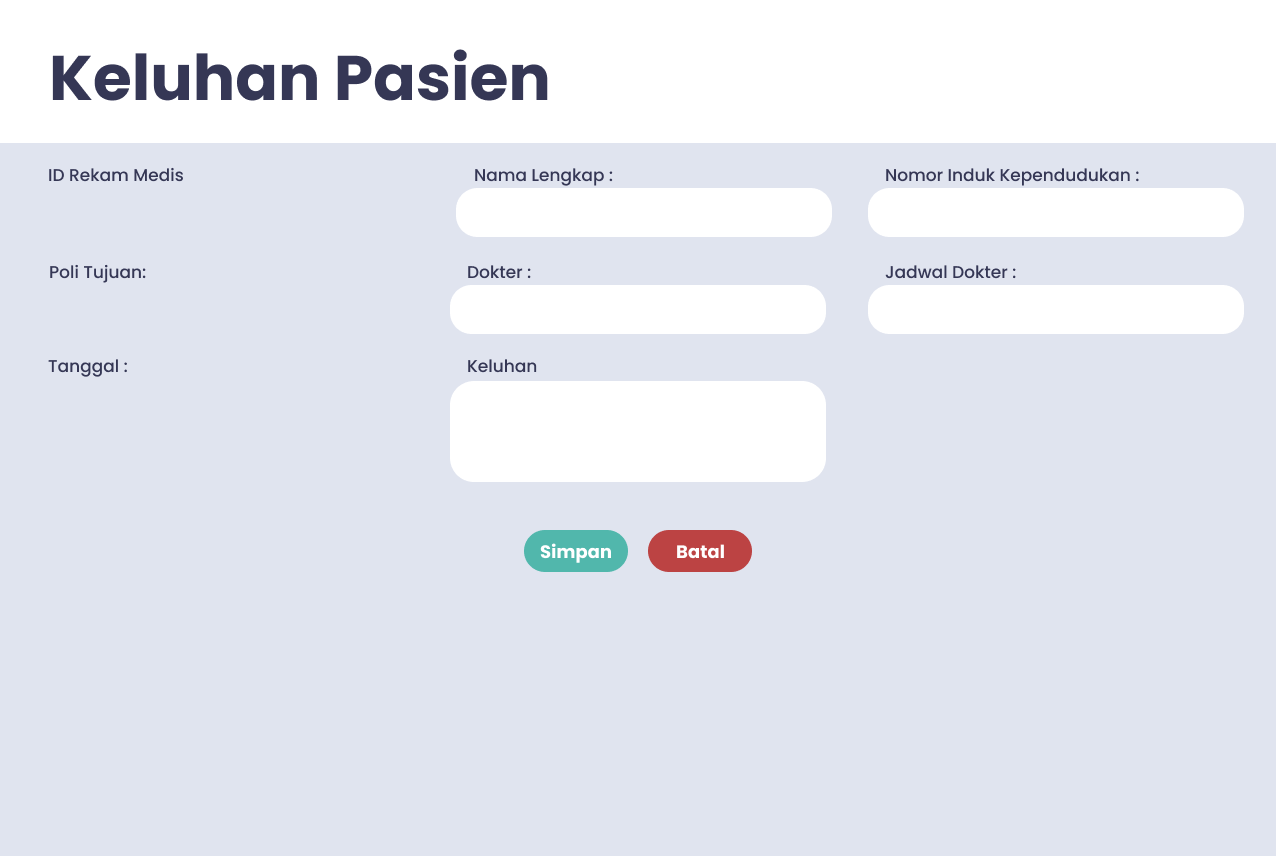
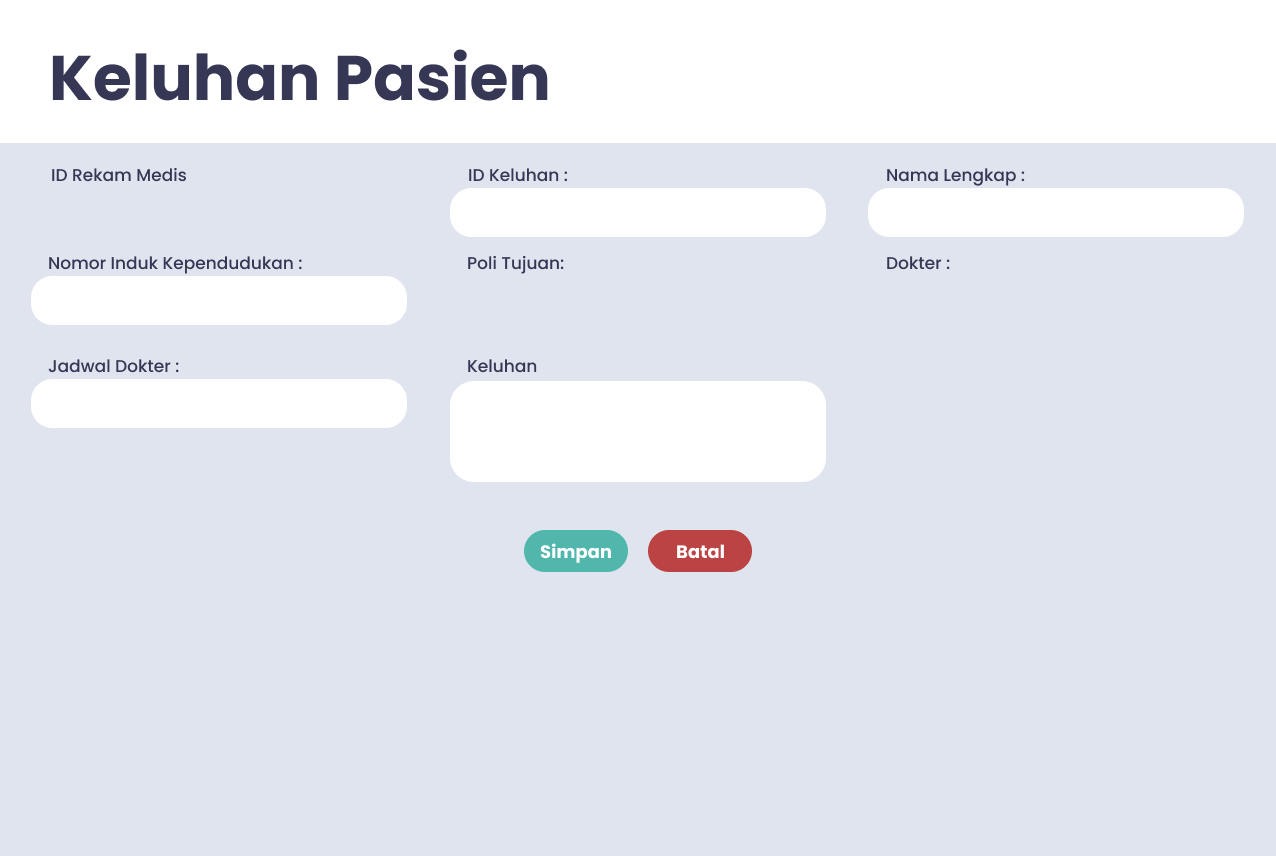
update view

diff --git a/src/permata/medika/clinic/center/MainPage.java b/src/permata/medika/clinic/center/MainPage.java
@@ -46,6 +46,9 @@ public class MainPage extends javax.swing.JFrame {
         setJumlahPasien();
         getComboRM();
         getComboPoli();
+        getDataRekamMedis();
+        getIDKeluhanOtomatis();
+        getIDRekamMedis();
     }
 
     /**
@@ -76,7 +79,6 @@ public class MainPage extends javax.swing.JFrame {
         lbl_total_pasien = new javax.swing.JLabel();
         bg_dashboard = new javax.swing.JLabel();
         menu_pendaftaran = new javax.swing.JPanel();
-        jLabel1 = new javax.swing.JLabel();
         tf_id_pasien = new javax.swing.JTextField();
         btn_simpan_pasien = new javax.swing.JLabel();
         jScrollPane1 = new javax.swing.JScrollPane();
@@ -105,6 +107,8 @@ public class MainPage extends javax.swing.JFrame {
         cmb_rekam_medis = new javax.swing.JComboBox<>();
         bg_keluhan = new javax.swing.JLabel();
         menu_rekammedis = new javax.swing.JPanel();
+        jscroll_tabel_rekam_medis = new javax.swing.JScrollPane();
+        tabel_rekam_medis = new javax.swing.JTable();
         bg_rekammedis = new javax.swing.JLabel();
 
         setDefaultCloseOperation(javax.swing.WindowConstants.EXIT_ON_CLOSE);
@@ -214,21 +218,21 @@ public class MainPage extends javax.swing.JFrame {
         lbl_jumlah_poli.setHorizontalAlignment(javax.swing.SwingConstants.CENTER);
         lbl_jumlah_poli.setText("0");
         menu_dashboard.add(lbl_jumlah_poli);
-        lbl_jumlah_poli.setBounds(1010, 230, 36, 100);
+        lbl_jumlah_poli.setBounds(976, 230, 140, 100);
 
         lbl_jumlah_dokter.setFont(new java.awt.Font("Helvetica Neue", 1, 64)); // NOI18N
         lbl_jumlah_dokter.setForeground(new java.awt.Color(255, 255, 255));
         lbl_jumlah_dokter.setHorizontalAlignment(javax.swing.SwingConstants.CENTER);
         lbl_jumlah_dokter.setText("0");
         menu_dashboard.add(lbl_jumlah_dokter);
-        lbl_jumlah_dokter.setBounds(640, 230, 36, 100);
+        lbl_jumlah_dokter.setBounds(596, 230, 170, 100);
 
         lbl_total_pasien.setFont(new java.awt.Font("Helvetica Neue", 1, 64)); // NOI18N
         lbl_total_pasien.setForeground(new java.awt.Color(255, 255, 255));
         lbl_total_pasien.setHorizontalAlignment(javax.swing.SwingConstants.CENTER);
         lbl_total_pasien.setText("0");
         menu_dashboard.add(lbl_total_pasien);
-        lbl_total_pasien.setBounds(280, 230, 36, 100);
+        lbl_total_pasien.setBounds(246, 230, 150, 100);
 
         bg_dashboard.setIcon(new javax.swing.ImageIcon(getClass().getResource("/image/halaman-menu/Panel - Dashboard - Admin.png"))); // NOI18N
         menu_dashboard.add(bg_dashboard);
@@ -240,15 +244,12 @@ public class MainPage extends javax.swing.JFrame {
         menu_pendaftaran.setBackground(new java.awt.Color(102, 255, 0));
         menu_pendaftaran.setLayout(null);
 
-        jLabel1.setText("isi id pasien");
-        menu_pendaftaran.add(jLabel1);
-        jLabel1.setBounds(170, 490, 100, 17);
-
         tf_id_pasien.setBackground(new Color(0,0,0,0));
         tf_id_pasien.setFont(new java.awt.Font("Helvetica Neue", 0, 18)); // NOI18N
         tf_id_pasien.setBorder(null);
+        tf_id_pasien.setEnabled(false);
         menu_pendaftaran.add(tf_id_pasien);
-        tf_id_pasien.setBounds(40, 520, 340, 50);
+        tf_id_pasien.setBounds(50, 188, 340, 50);
 
         btn_simpan_pasien.addMouseListener(new java.awt.event.MouseAdapter() {
             public void mouseClicked(java.awt.event.MouseEvent evt) {
@@ -266,7 +267,7 @@ public class MainPage extends javax.swing.JFrame {
         jScrollPane1.setViewportView(ta_alamat);
 
         menu_pendaftaran.add(jScrollPane1);
-        jScrollPane1.setBounds(470, 480, 350, 100);
+        jScrollPane1.setBounds(470, 470, 350, 100);
         menu_pendaftaran.add(jd_tanggal_lahir);
         jd_tanggal_lahir.setBounds(870, 190, 380, 50);
 
@@ -280,7 +281,7 @@ public class MainPage extends javax.swing.JFrame {
         tf_nomor_telepon.setFont(new java.awt.Font("Helvetica Neue", 0, 18)); // NOI18N
         tf_nomor_telepon.setBorder(null);
         menu_pendaftaran.add(tf_nomor_telepon);
-        tf_nomor_telepon.setBounds(50, 285, 340, 50);
+        tf_nomor_telepon.setBounds(50, 376, 340, 50);
 
         tf_nik.setBackground(new Color(0,0,0,0));
         tf_nik.setFont(new java.awt.Font("Helvetica Neue", 0, 18)); // NOI18N
@@ -297,7 +298,7 @@ public class MainPage extends javax.swing.JFrame {
         tf_nama_lengkap.setFont(new java.awt.Font("Helvetica Neue", 0, 18)); // NOI18N
         tf_nama_lengkap.setBorder(null);
         menu_pendaftaran.add(tf_nama_lengkap);
-        tf_nama_lengkap.setBounds(50, 188, 340, 50);
+        tf_nama_lengkap.setBounds(50, 282, 340, 50);
 
         cmb_kelamin.setModel(new javax.swing.DefaultComboBoxModel<>(new String[] { "--- Pilih Kelamin ---", "Laki - Laki", "Perempuan" }));
         cmb_kelamin.setBorder(null);
@@ -317,7 +318,7 @@ public class MainPage extends javax.swing.JFrame {
         cmb_poli.setModel(new javax.swing.DefaultComboBoxModel<>(new String[] { "--- Pilih Poli Tujuan ---", "Belum Nikah", "Sudah Nikah" }));
         cmb_poli.setBorder(null);
         menu_pendaftaran.add(cmb_poli);
-        cmb_poli.setBounds(30, 390, 380, 50);
+        cmb_poli.setBounds(30, 480, 380, 50);
 
         bg_pendaftaran.setIcon(new javax.swing.ImageIcon(getClass().getResource("/image/halaman-menu/Panel Pendaftaran - Admin.png"))); // NOI18N
         menu_pendaftaran.add(bg_pendaftaran);
@@ -337,8 +338,9 @@ public class MainPage extends javax.swing.JFrame {
         tf_id_keluhan.setBackground(new Color(0,0,0,0));
         tf_id_keluhan.setFont(new java.awt.Font("Helvetica Neue", 0, 18)); // NOI18N
         tf_id_keluhan.setBorder(null);
+        tf_id_keluhan.setEnabled(false);
         menu_keluhan.add(tf_id_keluhan);
-        tf_id_keluhan.setBounds(50, 400, 340, 50);
+        tf_id_keluhan.setBounds(470, 190, 330, 50);
 
         btn_simpan_keluhan.addMouseListener(new java.awt.event.MouseAdapter() {
             public void mouseClicked(java.awt.event.MouseEvent evt) {
@@ -346,7 +348,7 @@ public class MainPage extends javax.swing.JFrame {
             }
         });
         menu_keluhan.add(btn_simpan_keluhan);
-        btn_simpan_keluhan.setBounds(520, 530, 110, 40);
+        btn_simpan_keluhan.setBounds(520, 382, 110, 40);
 
         ta_keluhan.setColumns(20);
         ta_keluhan.setFont(new java.awt.Font("Helvetica Neue", 0, 18)); // NOI18N
@@ -361,20 +363,25 @@ public class MainPage extends javax.swing.JFrame {
         tf_jadwal_dokter.setBackground(new Color(0,0,0,0));
         tf_jadwal_dokter.setFont(new java.awt.Font("Helvetica Neue", 0, 18)); // NOI18N
         tf_jadwal_dokter.setBorder(null);
+        tf_jadwal_dokter.addActionListener(new java.awt.event.ActionListener() {
+            public void actionPerformed(java.awt.event.ActionEvent evt) {
+                tf_jadwal_dokterActionPerformed(evt);
+            }
+        });
         menu_keluhan.add(tf_jadwal_dokter);
-        tf_jadwal_dokter.setBounds(890, 290, 340, 50);
+        tf_jadwal_dokter.setBounds(50, 380, 340, 50);
 
         tf_nik_keluhan.setBackground(new Color(0,0,0,0));
         tf_nik_keluhan.setFont(new java.awt.Font("Helvetica Neue", 0, 18)); // NOI18N
         tf_nik_keluhan.setBorder(null);
         menu_keluhan.add(tf_nik_keluhan);
-        tf_nik_keluhan.setBounds(890, 190, 340, 50);
+        tf_nik_keluhan.setBounds(50, 276, 340, 50);
 
         tf_nama_lengkap_keluhan.setBackground(new Color(0,0,0,0));
         tf_nama_lengkap_keluhan.setFont(new java.awt.Font("Helvetica Neue", 0, 18)); // NOI18N
         tf_nama_lengkap_keluhan.setBorder(null);
         menu_keluhan.add(tf_nama_lengkap_keluhan);
-        tf_nama_lengkap_keluhan.setBounds(480, 190, 340, 50);
+        tf_nama_lengkap_keluhan.setBounds(890, 190, 340, 50);
 
         cmb_dokter.setModel(new javax.swing.DefaultComboBoxModel<>(new String[] { "--- Pilih Dokter ---" }));
         cmb_dokter.setBorder(null);
@@ -384,7 +391,7 @@ public class MainPage extends javax.swing.JFrame {
             }
         });
         menu_keluhan.add(cmb_dokter);
-        cmb_dokter.setBounds(450, 286, 380, 50);
+        cmb_dokter.setBounds(870, 280, 380, 50);
 
         cmb_poli_tujuan.setModel(new javax.swing.DefaultComboBoxModel<>(new String[] { "--- Pilih Poli Tujuan ---" }));
         cmb_poli_tujuan.setBorder(null);
@@ -394,7 +401,7 @@ public class MainPage extends javax.swing.JFrame {
             }
         });
         menu_keluhan.add(cmb_poli_tujuan);
-        cmb_poli_tujuan.setBounds(40, 288, 380, 50);
+        cmb_poli_tujuan.setBounds(450, 280, 380, 50);
 
         cmb_rekam_medis.setModel(new javax.swing.DefaultComboBoxModel<>(new String[] { "--- Pilih ID Rekam Medis ---" }));
         cmb_rekam_medis.setBorder(null);
@@ -404,7 +411,7 @@ public class MainPage extends javax.swing.JFrame {
             }
         });
         menu_keluhan.add(cmb_rekam_medis);
-        cmb_rekam_medis.setBounds(40, 190, 380, 50);
+        cmb_rekam_medis.setBounds(30, 190, 380, 50);
 
         bg_keluhan.setIcon(new javax.swing.ImageIcon(getClass().getResource("/image/halaman-menu/Panel Keluhan Pasien - Admin.png"))); // NOI18N
         menu_keluhan.add(bg_keluhan);
@@ -415,6 +422,24 @@ public class MainPage extends javax.swing.JFrame {
 
         menu_rekammedis.setBackground(new java.awt.Color(102, 255, 0));
         menu_rekammedis.setLayout(null);
+
+        tabel_rekam_medis.setFont(new java.awt.Font("Helvetica Neue", 0, 18)); // NOI18N
+        tabel_rekam_medis.setModel(new javax.swing.table.DefaultTableModel(
+            new Object [][] {
+                {null, null, null, null, null, null},
+                {null, null, null, null, null, null},
+                {null, null, null, null, null, null},
+                {null, null, null, null, null, null}
+            },
+            new String [] {
+                "Nomor RM", "Nama", "Alamat", "Tanggal", "Layanan", "Aksi"
+            }
+        ));
+        tabel_rekam_medis.setRowHeight(40);
+        jscroll_tabel_rekam_medis.setViewportView(tabel_rekam_medis);
+
+        menu_rekammedis.add(jscroll_tabel_rekam_medis);
+        jscroll_tabel_rekam_medis.setBounds(100, 310, 1080, 460);
 
         bg_rekammedis.setIcon(new javax.swing.ImageIcon(getClass().getResource("/image/halaman-menu/Panel - Rekam Medis - Admin.png"))); // NOI18N
         menu_rekammedis.add(bg_rekammedis);
@@ -444,6 +469,89 @@ public class MainPage extends javax.swing.JFrame {
 //        }                  
 //    }
 //    
+    
+    public void getIDKeluhanOtomatis(){
+        try {
+            String sql = "select id_keluhan from `tb_keluhan`";
+            java.sql.Connection conn = (Connection) config.configDB();
+            java.sql.Statement stm = conn.createStatement();
+            java.sql.ResultSet res = stm.executeQuery(sql);
+
+            String lastNumber = null;
+            while (res.next()) {
+              lastNumber  = res.getString(1);
+            };
+            
+            String twoLastChars = lastNumber.substring(lastNumber.length() - 2);
+            int lastNumbers = Integer.parseInt(twoLastChars);
+            int newID = lastNumbers + 1;
+            if(newID >= 10){
+                tf_id_keluhan.setText("IDKE" + newID);
+            }else{
+                tf_id_keluhan.setText("IDKE0" + newID);
+            }
+        } catch (Exception e) {
+            System.err.println("koneksi gagal " + e.getMessage());
+        }
+    }
+    
+    public void getIDRekamMedis(){
+        try {
+            String sql = "select id_rekam_medis from `tb_pasien`";
+            java.sql.Connection conn = (Connection) config.configDB();
+            java.sql.Statement stm = conn.createStatement();
+            java.sql.ResultSet res = stm.executeQuery(sql);
+            
+            String lastNumber = null;
+            while (res.next()) {
+              lastNumber  = res.getString(1);
+            };
+            
+            String twoLastChars = lastNumber.substring(lastNumber.length() - 2);
+            int lastNumbers = Integer.parseInt(twoLastChars);
+            int newID = lastNumbers + 1;
+            if(newID >= 10){
+                tf_id_pasien.setText("IDP0" + newID);
+            }else{
+                tf_id_pasien.setText("IDP00" + newID);
+            }
+        } catch (Exception e) {
+            System.err.println("koneksi gagal " + e.getMessage());
+        }
+    }
+    
+    public void getDataRekamMedis(){
+        try {
+            String sql = "SELECT tb_keluhan.id_rekam_medis, tb_pasien.nama, tb_pasien.alamat, tb_keluhan.tanggal_pemeriksaan ,tb_keluhan.layanan FROM tb_keluhan JOIN tb_pasien ON tb_keluhan.id_rekam_medis = tb_pasien.id_rekam_medis;";
+            java.sql.Connection conn = (Connection) config.configDB();
+            java.sql.Statement stm = conn.createStatement();
+            java.sql.ResultSet res = stm.executeQuery(sql);
+
+            DefaultTableModel tbl = new DefaultTableModel();
+            tbl.addColumn("Nomor RM");
+            tbl.addColumn("Nama");
+            tbl.addColumn("Alamat");
+            tbl.addColumn("Tanggal Kontrol");
+            tbl.addColumn("Layanan");
+            tbl.addColumn("Aksi");
+            tabel_rekam_medis.setModel(tbl);
+            
+            while (res.next()) {
+                tbl.addRow(new Object[]{
+                    res.getString(1),
+                    res.getString(2),
+                    res.getString(3),
+                    res.getString(4),
+                    res.getString(5)
+                });
+                tabel_rekam_medis.setModel(tbl);
+            };
+            
+        } catch (Exception e) {
+            System.err.println("koneksi gagal " + e.getMessage());
+        }
+    }
+    
     public void setJadwalByIdDokter(){
         try {
             String ID_Dokter = (String)cmb_dokter.getSelectedItem();
@@ -541,7 +649,6 @@ public class MainPage extends javax.swing.JFrame {
             java.sql.Statement stm = conn.createStatement();
             java.sql.ResultSet res = stm.executeQuery(sql);
 
-            
             while (res.next()) {
                 cmb_dokter.addItem(res.getString(1));
             };
@@ -767,16 +874,15 @@ public class MainPage extends javax.swing.JFrame {
     private void btn_simpan_keluhanMouseClicked(java.awt.event.MouseEvent evt) {//GEN-FIRST:event_btn_simpan_keluhanMouseClicked
         try {
            
-            String sql = "IINSERT INTO `tb_keluhan` VALUES ('%s','%s','%s','%s','%s','%s')";
+            String sql = "INSERT INTO `tb_keluhan`(`id_keluhan`, `id_rekam_medis`, `id_poli`, `keluhan`, `id_dokter`) VALUES ('%s','%s','%s','%s','%s')";
             java.sql.Connection conn = (Connection)config.configDB();
             sql = String.format(
                 sql,
                 tf_id_keluhan.getText(),
                 cmb_rekam_medis.getSelectedItem(),
                 cmb_poli_tujuan.getSelectedItem(),
-                cmb_dokter.getSelectedItem(),
-                tf_jadwal_dokter.getText(),
-                ta_keluhan.getText()
+                ta_keluhan.getText(),
+                cmb_dokter.getSelectedItem()
             );
             java.sql.PreparedStatement pst = conn.prepareStatement(sql);
             pst.execute();
@@ -797,6 +903,10 @@ public class MainPage extends javax.swing.JFrame {
     private void cmb_poli_tujuanActionPerformed(java.awt.event.ActionEvent evt) {//GEN-FIRST:event_cmb_poli_tujuanActionPerformed
         setDokterByIdPoli();
     }//GEN-LAST:event_cmb_poli_tujuanActionPerformed
+
+    private void tf_jadwal_dokterActionPerformed(java.awt.event.ActionEvent evt) {//GEN-FIRST:event_tf_jadwal_dokterActionPerformed
+        // TODO add your handling code here:
+    }//GEN-LAST:event_tf_jadwal_dokterActionPerformed
 
     /**
      * @param args the command line arguments
@@ -853,10 +963,10 @@ public class MainPage extends javax.swing.JFrame {
     private javax.swing.JComboBox<String> cmb_poli_tujuan;
     private javax.swing.JComboBox<String> cmb_rekam_medis;
     private javax.swing.JComboBox<String> cmb_status_pernikahan;
-    private javax.swing.JLabel jLabel1;
     private javax.swing.JScrollPane jScrollPane1;
     private javax.swing.JScrollPane jScrollPane2;
     private com.toedter.calendar.JDateChooser jd_tanggal_lahir;
+    private javax.swing.JScrollPane jscroll_tabel_rekam_medis;
     private javax.swing.JLabel lbl_jumlah_dokter;
     private javax.swing.JLabel lbl_jumlah_poli;
     private javax.swing.JLabel lbl_total_pasien;
@@ -874,6 +984,7 @@ public class MainPage extends javax.swing.JFrame {
     private javax.swing.JLabel sidebar;
     private javax.swing.JTextArea ta_alamat;
     private javax.swing.JTextArea ta_keluhan;
+    private javax.swing.JTable tabel_rekam_medis;
     private javax.swing.JTextField tf_id_keluhan;
     private javax.swing.JTextField tf_id_pasien;
     private javax.swing.JTextField tf_jadwal_dokter;
